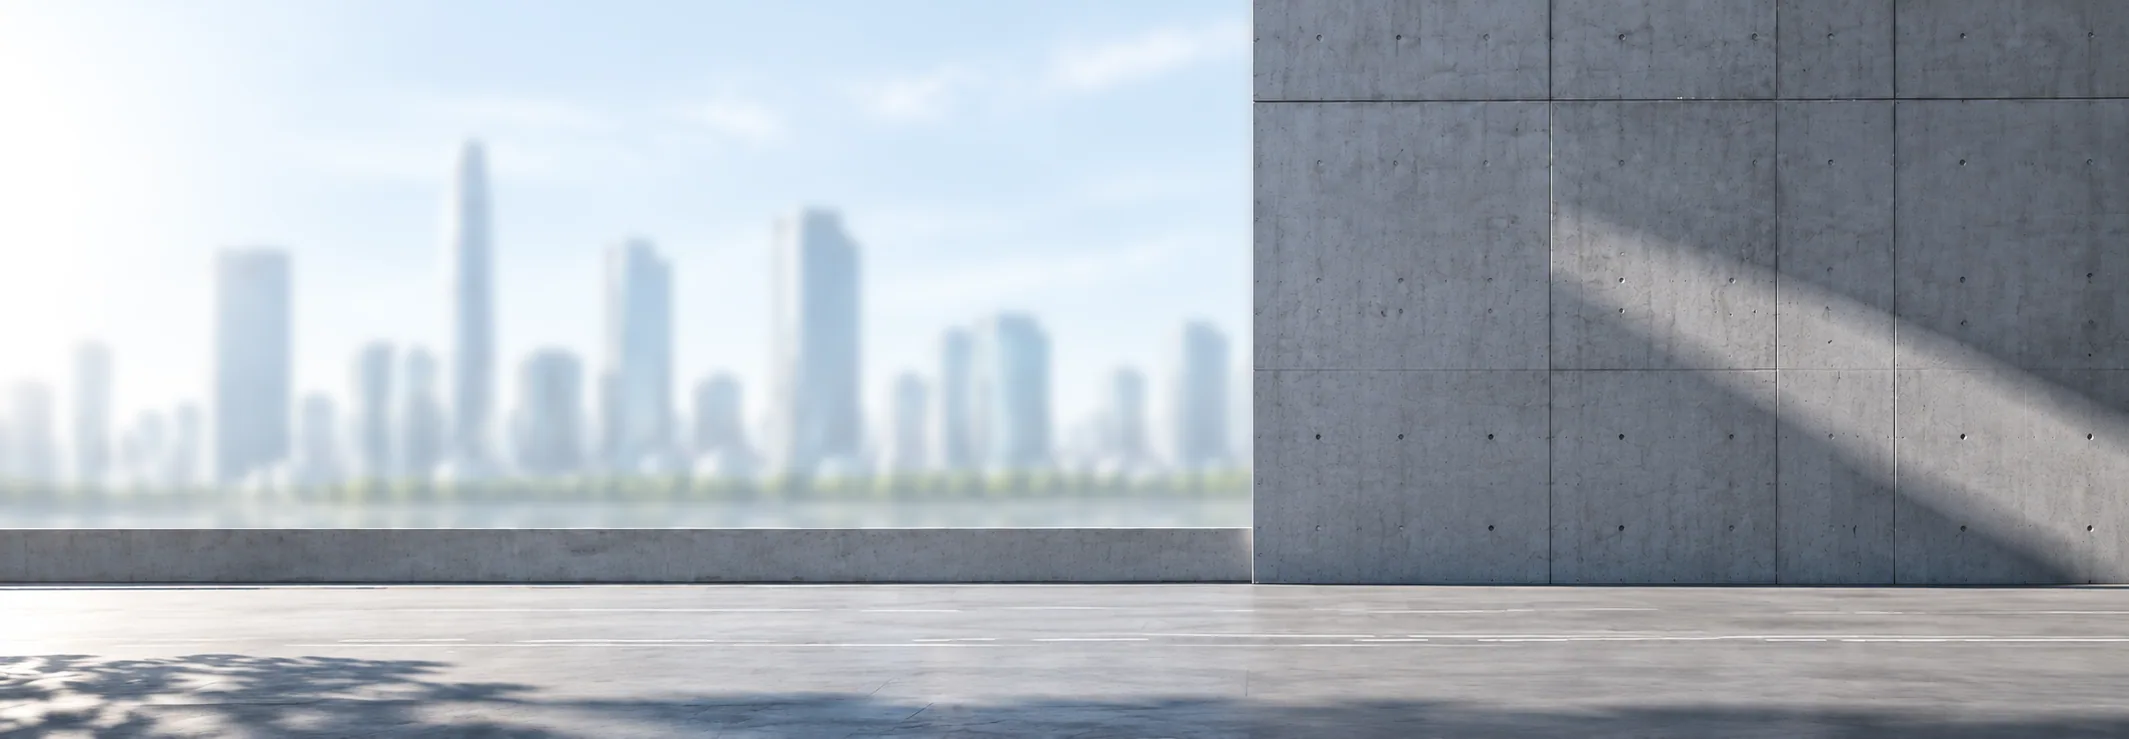
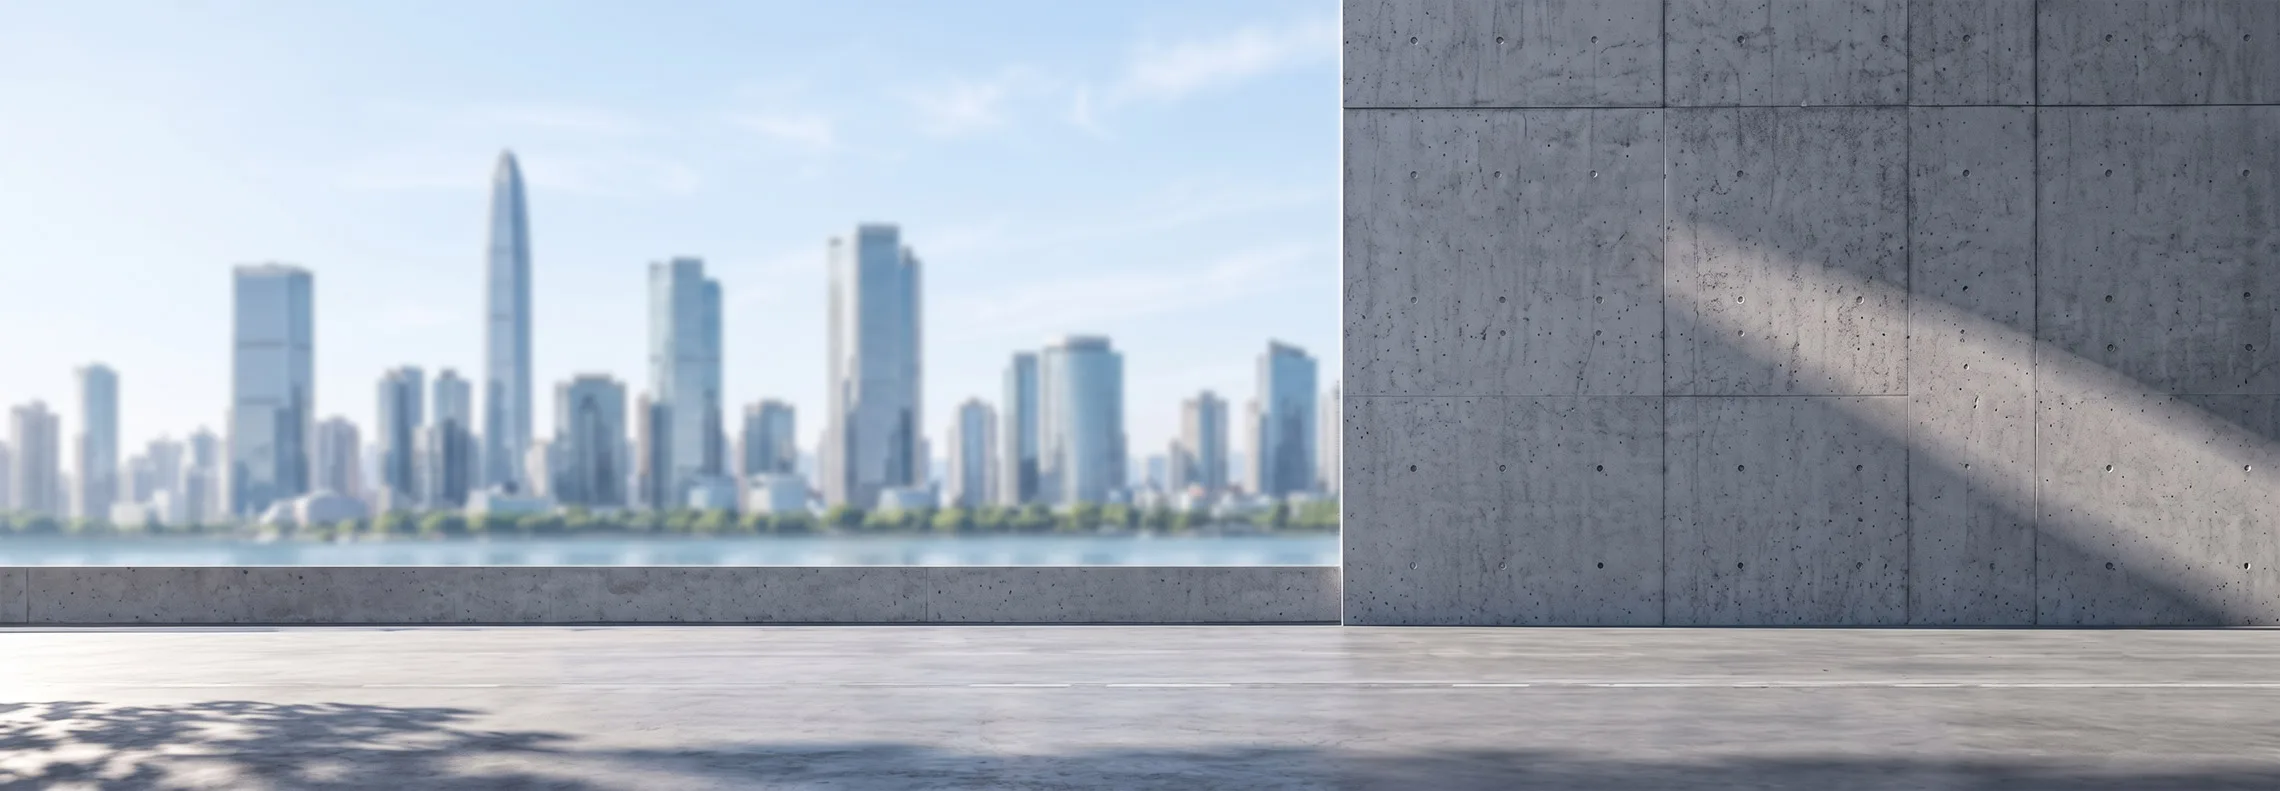
feat(images): replace site images with the client's 25/09 set
The client re-exported every image cropped exactly to its Figma frame at 1x,
so blocks that emulated the old Figma crops in code now place the image
directly:

- header: hero fills the 1440x1024 frame instead of the 134.58vw offset crop
- gtsp: car is a full-card layer (2280x791); both spinning wheels re-cut as
  circles from the new car image and placed on the measured rim centres
- versions: background fills section height (2124px wide at 1440 = 684px of
  slide room), slides 0 -> -684; phones/tablets show it as a top band
  (210% / 150% wide) so the car no longer covers the version title
- interior: car and background are 1440x1200; the separate shadow layer is
  dropped because the new car image carries its own shadow
- charging: car is a 1440x610 bottom band at y=666

Also swaps USP, exterior details, interior hotspot cards, CTA, charging
background and both 8-angle exterior sets; removes the superseded 23/09 CMS
uploads; updates CMS size hints and the layout audit to the new geometry.

diff --git a/components/sections/Gtsp.tsx b/components/sections/Gtsp.tsx
@@ -45,10 +45,11 @@ export function Gtsp({ onCtaClick }: { onCtaClick?: () => void }) {
             {/* Xe chạy vào từ mép phải, hai bánh quay theo — bánh là ảnh rời nên
                 quay được thật. Cả cụm trượt cùng nhau để xe và bánh không lệch.
                 Xe đi sang TRÁI nên bánh quay ngược chiều kim đồng hồ (720° → 0°),
-                dừng ở 0° = đúng tư thế Figma (tệp bánh đã được xoay sẵn 180°).
-                Ảnh bánh phải là ảnh VUÔNG, bánh nằm giữa — Figma gốc để bánh trong cả
-                khung 1869×842 rồi cắt bằng imageTransform; nhét nguyên khung vào ô
-                81px thì bánh teo thành 1 đốm (khách đã hỏi 17/09). */}
+                dừng ở 0° = đúng tư thế trong ảnh xe.
+                Ảnh xe (bộ ảnh 25/09) là 1 lớp PHỦ CẢ THẺ 2280×791 (cùng khổ ảnh nền), bánh
+                đã vẽ sẵn trong ảnh. Hai lớp bánh là hình tròn cắt từ CHÍNH ảnh xe đó, đặt
+                đè đúng chỗ (đo tâm vành: trước 1197,600 · sau 1897.5,608 trên tệp 2280;
+                quy về thẻ 1280 bằng ×0.5614). Đổi ảnh xe thì phải cắt + đo lại 2 bánh. */}
             <motion.div
               aria-hidden
               className="pointer-events-none hidden lg:block"
@@ -63,27 +64,27 @@ export function Gtsp({ onCtaClick }: { onCtaClick?: () => void }) {
               <Image
                 src={car.src}
                 alt={car.alt}
-                width={678}
-                height={306}
-                className="absolute left-[calc(544*var(--u))] top-[calc(87*var(--u))] h-[calc(306*var(--u))] w-[calc(678*var(--u))] max-w-none"
+                width={2280}
+                height={791}
+                className="absolute left-0 top-0 h-[calc(444*var(--u))] w-[calc(1280*var(--u))] max-w-none"
               />
               <motion.span
-                className="absolute left-[calc(638*var(--u))] top-[calc(294*var(--u))] block size-[calc(81*var(--u))]"
+                className="absolute left-[calc(631*var(--u))] top-[calc(295.9*var(--u))] block size-[calc(82*var(--u))]"
                 initial={{ rotate: 720 }}
                 whileInView={{ rotate: 0 }}
                 viewport={{ once: true, amount: 0.4 }}
                 transition={WHEEL}
               >
-                <Image src={wheelFront.src} alt="" width={81} height={81} className="size-full max-w-none" />
+                <Image src={wheelFront.src} alt="" width={146} height={146} className="size-full max-w-none" />
               </motion.span>
               <motion.span
-                className="absolute left-[calc(1023*var(--u))] top-[calc(294*var(--u))] block size-[calc(81*var(--u))]"
+                className="absolute left-[calc(1025.7*var(--u))] top-[calc(301.5*var(--u))] block size-[calc(79.7*var(--u))]"
                 initial={{ rotate: 720 }}
                 whileInView={{ rotate: 0 }}
                 viewport={{ once: true, amount: 0.4 }}
                 transition={WHEEL}
               >
-                <Image src={wheelRear.src} alt="" width={81} height={81} className="size-full max-w-none" />
+                <Image src={wheelRear.src} alt="" width={142} height={142} className="size-full max-w-none" />
               </motion.span>
             </motion.div>
 
@@ -110,14 +111,19 @@ export function Gtsp({ onCtaClick }: { onCtaClick?: () => void }) {
               </button>
             </motion.div>
 
-            {/* Ảnh xe bản điện thoại: nằm dưới chữ cho khỏi che */}
-            <Image
-              src={car.src}
-              alt={car.alt}
-              width={678}
-              height={306}
-              className="relative mx-auto h-auto w-full max-w-[420px] px-4 pb-6 lg:hidden"
-            />
+            {/* Ảnh xe bản điện thoại: nằm dưới chữ cho khỏi che. Ảnh xe phủ cả thẻ nên
+                cắt bằng khung: chỉ lấy vùng có xe (1079,234 → 1037×445 trên tệp 2280×791). */}
+            <div className="relative mx-auto mb-6 w-[calc(100%-32px)] max-w-[420px] lg:hidden">
+              <div className="relative aspect-[1037/445] overflow-hidden">
+                <Image
+                  src={car.src}
+                  alt={car.alt}
+                  width={2280}
+                  height={791}
+                  className="absolute left-[-104.05%] top-[-52.58%] h-auto w-[219.86%] max-w-none"
+                />
+              </div>
+            </div>
           </div>
         </div>
       </div>

diff --git a/components/sections/Versions.tsx b/components/sections/Versions.tsx
@@ -19,21 +19,27 @@ import { ArrowLeft, ArrowRight } from "@/components/icons";
  * Ảnh gốc vốn có SẴN HAI chiếc xe — chiếc thứ hai chính là xe của bản V2.7, lộ ra
  * sau khi nền trượt. Đừng "sửa" cho mất chiếc xe đó.
  *
+ * Ảnh nền bộ 25/09 (4000×1791) làm sẵn cho cơ chế này: cao đúng bằng khối (951) thì
+ * rộng 2124 = 1440 + 684. Nên ảnh cao 100% khối, rộng 147.5%, và trượt từ 0 về -684.
+ *
  * Từ `lg` (800) bố cục co theo `--u` (khối gắn `.canvas-1440`), chữ co theo nhưng có
  * cỡ sàn. Bảng thông số 590·u không đủ chỗ cho 4 chỉ số 1 hàng ở laptop hẹp nên
  * dưới `xl` được xuống hàng; từ `xl` giữ đúng 1 hàng 590×97 như Figma.
  */
 
 // Quy về phần trăm bề rộng khung 1440 để giữ đúng bố cục ở mọi bề ngang màn.
-const BG_X = [-340 / 1440, -1024 / 1440]; // vị trí ảnh nền theo từng phiên bản
+const BG_X = [0, -684 / 1440]; // vị trí ảnh nền theo từng phiên bản
 const PANEL_X = [735 / 1440, 176 / 1440]; // vị trí bảng thông số đang hiển thị
 
 /**
- * Điện thoại không trượt ảnh nền được (ảnh bị `object-cover` cắt vừa khung), nên
- * đổi phiên bản bằng cách NGẮM điểm cắt sang chiếc xe kia. Ảnh gốc 2040×1532:
- * xe của bản 1 nằm quanh x=580, xe của bản 2 quanh x=1460 → quy ra 16% và 84%.
+ * Điện thoại: ảnh 4000×1791 rất ngang, phủ kín khối cao thì xe phóng quá to và đè
+ * chữ. Nên ảnh là 1 DẢI ở đầu khối, rộng 210% màn (xe ~160px như bản cũ), và đổi
+ * phiên bản bằng cách trượt dải: xe bản 1 ở 20.6% bề ngang ảnh → 43% màn khi lề 0;
+ * xe bản 2 ở 78.9% → 56% màn khi lề -110%. Máy tính bảng (640–799) chữ nằm cao hơn
+ * nên dải chỉ rộng 150% (không thì xe đè chữ "V2.6-2S"): xe bản 2 ở 118% → lề -68%.
  */
-const BG_POS = ["16% 56%", "84% 56%"];
+const BG_M = ["0%", "-110%"];
+const BG_M_SM = ["0%", "-68%"];
 
 export function Versions({
   versionId,
@@ -60,14 +66,15 @@ export function Versions({
         <Image
           src={background.srcMobile || background.src}
           alt=""
-          width={2812}
-          height={2112}
-          sizes="200vw"
-          className="absolute inset-0 h-full w-full object-cover [object-position:var(--bg-pos)] transition-[left,object-position] duration-[1022ms] [transition-timing-function:var(--ease-gentle)] lg:left-[var(--bg-x)] lg:top-1/2 lg:mt-[3.13vw] lg:h-auto lg:w-[195.28%] lg:max-w-none lg:-translate-y-1/2 lg:[object-position:50%_50%]"
+          width={4000}
+          height={1791}
+          sizes="150vw"
+          className="absolute left-[var(--bg-m)] top-0 h-auto w-[210%] max-w-none sm:left-[var(--bg-m-sm)] sm:w-[150%] [mask-image:linear-gradient(to_bottom,black_65%,transparent)] transition-[left] duration-[1022ms] [transition-timing-function:var(--ease-gentle)] lg:left-[var(--bg-x)] lg:h-full lg:w-[147.5%] lg:object-cover lg:[mask-image:none]"
           style={
             {
               "--bg-x": `${BG_X[frame] * 100}%`,
-              "--bg-pos": BG_POS[frame] ?? BG_POS[BG_POS.length - 1],
+              "--bg-m": BG_M[frame] ?? BG_M[BG_M.length - 1],
+              "--bg-m-sm": BG_M_SM[frame] ?? BG_M_SM[BG_M_SM.length - 1],
             } as React.CSSProperties
           }
         />

diff --git a/components/sections/Charging.tsx b/components/sections/Charging.tsx
@@ -11,10 +11,11 @@ import { SectionLabel } from "@/components/SectionLabel";
  *
  * Từ `lg` (800) co theo `--u` (khối gắn `.canvas-1440`) nhưng xếp theo DÒNG CHẢY:
  * thẻ trạm ở 853px chỉ rộng ~179px, ghim cứng cao 372·u thì nội dung tràn khỏi thẻ.
- * Nên thẻ cao theo nội dung (tối thiểu 372·u), ảnh xe nối sau thẻ (vẫn đè lên thẻ
- * 83·u và bị cắt đáy 60·u như Figma), ô tốc độ sạc neo theo đáy khối. Khung cha phải
- * `flow-root`: không thì lề âm ở đáy ảnh bị gộp xuyên ra ngoài, mất tác dụng, ô tốc độ
- * sạc tụt xuống đè lên xe 60·u. Từ `xl` ghim đúng toạ độ Figma.
+ * Nên thẻ cao theo nội dung (tối thiểu 372·u), ảnh xe nối sau thẻ, ô tốc độ sạc neo
+ * theo đáy khối. Từ `xl` ghim đúng toạ độ Figma.
+ * Ảnh xe bộ 25/09 là DẢI ĐÁY KHỐI 1440×610 cắt sẵn (xe đúng vị trí cũ, đáy ảnh = đáy
+ * khối): đặt ở y=666, tức cách đáy thẻ trạm 56. Trên điện thoại phóng 135% và lùi
+ * 17.5% để chỉ lấy phần có xe (xe chiếm 16.5%–86.3% bề ngang ảnh).
  */
 export function Charging({ onMissingLink }: { onMissingLink?: () => void }) {
   const { label, heading, description, background, car, mapLabel, stations, highlight } =
@@ -109,10 +110,10 @@ export function Charging({ onMissingLink }: { onMissingLink?: () => void }) {
           <Image
             src={car.src}
             alt={car.alt}
-            width={1220}
-            height={809}
-            sizes="(max-width: 1023px) 100vw, 1220px"
-            className="pointer-events-none relative mt-10 h-auto w-full px-4 lg:-mb-[calc(60*var(--u))] lg:-mt-[calc(83*var(--u))] lg:ml-[calc(110*var(--u))] lg:w-[calc(1220*var(--u))] lg:max-w-none lg:px-0 xl:absolute xl:left-[110px] xl:top-[527px] xl:m-0 xl:h-[809px] xl:w-[1220px]"
+            width={1440}
+            height={610}
+            sizes="(max-width: 1023px) 135vw, 1440px"
+            className="pointer-events-none relative -ml-[17.5%] mt-10 h-auto w-[135%] max-w-none lg:ml-0 lg:mt-[calc(56*var(--u))] lg:w-[calc(1440*var(--u))] xl:absolute xl:left-0 xl:top-[666px] xl:m-0 xl:h-[610px] xl:w-[1440px]"
           />
 
           <div className="relative mt-8 flex items-center gap-[16px] px-4 lg:absolute lg:bottom-[calc(522*var(--u))] lg:left-[calc(80*var(--u))] lg:mt-0 lg:w-[calc(494*var(--u))] lg:gap-[calc(16*var(--u))] lg:px-0 xl:top-[666px] xl:bottom-auto">

diff --git a/components/sections/Interior.tsx b/components/sections/Interior.tsx
@@ -43,24 +43,28 @@ export function Interior({
         src={background.srcMobile || background.src}
         alt=""
         width={1440}
-        height={1917}
+        height={1200}
         sizes="100vw"
         aria-hidden
         className="absolute inset-0 h-full w-full object-cover"
       />
       <div className="canvas-1440 relative mx-auto w-full max-w-[1440px] lg:aspect-[1440/1200]">
-        <Image
-          src={shadow.src}
-          alt=""
-          width={1440}
-          height={1920}
-          sizes="100vw"
-          aria-hidden
-          className="absolute inset-x-0 top-0 hidden h-[1920px] w-[1440px] max-w-none lg:top-[calc(45*var(--u))] lg:block lg:h-[calc(1920*var(--u))] lg:w-full"
-        />
-        {/* Bản dựng play: xe trôi lên từ dưới khi cuộn tới khối này. */}
+        {/* Ảnh xe bộ 25/09 đã có sẵn bóng đổ → lớp bóng riêng để trống thì không vẽ. */}
+        {shadow.src && (
+          <Image
+            src={shadow.src}
+            alt=""
+            width={1440}
+            height={1920}
+            sizes="100vw"
+            aria-hidden
+            className="absolute inset-x-0 top-0 hidden h-[1920px] w-[1440px] max-w-none lg:top-[calc(45*var(--u))] lg:block lg:h-[calc(1920*var(--u))] lg:w-full"
+          />
+        )}
+        {/* Bản dựng play: xe trôi lên từ dưới khi cuộn tới khối này. Ảnh xe bộ 25/09
+            cắt sẵn đúng khung 1440×1200 (xe đã nằm đúng chỗ) nên đặt ở góc trên, không lệch. */}
         <motion.div
-          className="absolute inset-x-0 top-0 lg:top-[calc(45*var(--u))]"
+          className="absolute inset-x-0 top-0"
           initial={{ y: 140, opacity: 0 }}
           whileInView={{ y: 0, opacity: 1 }}
           viewport={{ once: true, amount: 0.3 }}
@@ -72,9 +76,9 @@ export function Interior({
             src={car.src}
             alt={car.alt}
             width={1440}
-            height={1917}
+            height={1200}
             sizes="100vw"
-            className="h-[900px] w-full object-cover motion-safe:animate-[fade-in_600ms_ease-out] lg:h-[calc(1917*var(--u))] lg:w-full"
+            className="h-[900px] w-full object-cover motion-safe:animate-[fade-in_600ms_ease-out] lg:h-[calc(1200*var(--u))] lg:w-full"
           />
         </motion.div>
         <span

diff --git a/components/sections/Header.tsx b/components/sections/Header.tsx
@@ -101,9 +101,9 @@ export function SiteNav() {
  * chữ co theo nhưng có cỡ sàn (tiêu đề ≥20px, mô tả ≥12px) để không xuống dòng đè xe:
  *  · NỀN tràn hết bề ngang màn hình;
  *  · NỘI DUNG (logo, chữ) neo trong khung 1440 căn giữa.
- * Ảnh lớn đặt bằng đơn vị `vw` theo đúng tỉ lệ Figma (1938×1551 tại -249,-244
- * trên khung 1440) nên bố cục ảnh giữ nguyên ở mọi bề ngang, không lộ thêm/mất
- * bớt phần nào. Chiều cao khối vì thế cũng co giãn theo: 1024/1440 = 71.11vw.
+ * Ảnh lớn (bộ ảnh 25/09) đã được cắt sẵn đúng khung 1440×1024 nên chỉ việc phủ kín
+ * khối; chiều cao khối co giãn theo bề ngang: 1024/1440 = 71.11vw, nhờ vậy bố cục ảnh
+ * giữ nguyên ở mọi bề ngang, không lộ thêm/mất bớt phần nào.
  */
 export function Header() {
   const { logo, background, title, description } = header;
@@ -115,11 +115,11 @@ export function Header() {
         <Image
           src={background.srcMobile || background.src}
           alt={background.alt}
-          width={1938}
-          height={1551}
+          width={2100}
+          height={1493}
           priority
-          sizes="140vw"
-          className="h-[62vw] max-h-[460px] w-full object-cover object-[62%_60%] sm:h-[56vw] lg:absolute lg:left-[-17.29vw] lg:top-[-16.94vw] lg:h-auto lg:max-h-none lg:w-[134.58vw] lg:max-w-none lg:object-[50%_50%]"
+          sizes="100vw"
+          className="h-[62vw] max-h-[460px] w-full object-cover object-[62%_60%] sm:h-[56vw] lg:absolute lg:inset-0 lg:h-full lg:max-h-none lg:object-[50%_50%]"
         />
 
         {/* Vệt sáng trắng làm nền cho chữ (Figma: ellipse trắng, mờ 356px,

diff --git a/components/admin/InteriorEditor.tsx b/components/admin/InteriorEditor.tsx
@@ -50,13 +50,13 @@ export function InteriorEditor() {
         </Field>
         <ResponsiveImageInput
           label="Ảnh nền"
-          recommended="1440×1917px, .webp"
+          recommended="1440×1200px (đúng khung khối), .webp"
           value={data.background}
           onChange={(background) => setData({ ...data, background })}
         />
         <ImageInput
           label="Ảnh bóng đổ"
-          hint="Khuyến nghị: 1440×1920px, nền trong suốt."
+          hint="Để trống nếu ảnh xe đã có sẵn bóng đổ (ảnh hiện tại đã có). Nếu dùng: 1440×1920px, nền trong suốt."
           value={data.shadow.src}
           onChange={(src) => setData({ ...data, shadow: { ...data.shadow, src } })}
         />
@@ -74,8 +74,8 @@ export function InteriorEditor() {
           label={tab ? `Ảnh xe — ${tabName}` : "Ảnh xe"}
           hint={
             tab
-              ? "Ảnh xe nhìn từ trên riêng của phiên bản này, 1440×1917px, nền trong suốt. Để trống = dùng ảnh của phiên bản mặc định."
-              : "Khuyến nghị: 1440×1917px, nền trong suốt."
+              ? "Ảnh xe nhìn từ trên riêng của phiên bản này, 1440×1200px, nền trong suốt. Để trống = dùng ảnh của phiên bản mặc định."
+              : "Khuyến nghị: 1440×1200px (đúng khung khối, xe đặt sẵn đúng chỗ), nền trong suốt."
           }
           value={tab ? data.carByVersion?.[tab]?.src ?? "" : data.car.src}
           onChange={(src) =>

diff --git a/components/admin/GtspEditor.tsx b/components/admin/GtspEditor.tsx
@@ -56,7 +56,7 @@ export function GtspEditor() {
         />
         <ImageInput
           label="Ảnh xe"
-          hint="Khuyến nghị: 678×306px, nền trong suốt."
+          hint="Khuyến nghị: 2280×791px (cùng khổ ảnh nền), xe đặt đúng chỗ trong khung, nền trong suốt. Đổi ảnh xe thì 2 ảnh bánh xe cũng phải cắt lại cho khớp."
           value={data.car.src}
           onChange={(src) => setData({ ...data, car: { ...data.car, src } })}
         />

diff --git a/components/admin/HeaderEditor.tsx b/components/admin/HeaderEditor.tsx
@@ -42,7 +42,7 @@ export function HeaderEditor() {
       <Card className="flex flex-col gap-4">
         <ResponsiveImageInput
           label="Ảnh lớn đầu trang"
-          recommended="1938×1551px, .webp"
+          recommended="2100×1493px (đúng tỉ lệ khung 1440×1024), .webp"
           recommendedMobile="900×1200px"
           value={data.background}
           onChange={(background) => setData({ ...data, background })}

diff --git a/components/admin/ChargingEditor.tsx b/components/admin/ChargingEditor.tsx
@@ -61,7 +61,7 @@ export function ChargingEditor() {
         />
         <ImageInput
           label="Ảnh xe đang sạc"
-          hint="Khuyến nghị: 1220×809px, nền trong suốt."
+          hint="Khuyến nghị: 1440×610px (dải đáy khối, xe đặt sẵn đúng chỗ), nền trong suốt."
           value={data.car.src}
           onChange={(src) => setData({ ...data, car: { ...data.car, src } })}
         />

diff --git a/components/admin/VersionsEditor.tsx b/components/admin/VersionsEditor.tsx
@@ -53,7 +53,7 @@ export function VersionsEditor() {
         </Field>
         <ResponsiveImageInput
           label="Ảnh nền"
-          recommended="2812×2112px, .webp"
+          recommended="4000×1791px (tỉ lệ 2,23:1 — cao bằng khối thì dư đúng 684px để trượt), .webp"
           value={data.background}
           onChange={(background) => setData({ ...data, background })}
         />
